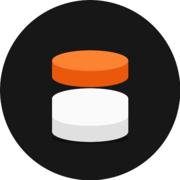
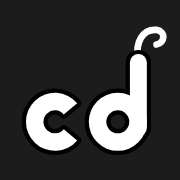
feat(web): cd look, dark theme and offline install
Ubuntu fonts, cream and graphite palette with one yellow accent, a prompt-style
header with a theme toggle, and a service worker plus manifest so the hub
installs and keeps working offline.

diff --git a/apps/web/app/layout.tsx b/apps/web/app/layout.tsx
@@ -1,43 +1,43 @@
-import type { Metadata } from 'next'
-import { Geist, Geist_Mono, Inter } from 'next/font/google'
+import type { Metadata, Viewport } from 'next'
+import { Ubuntu, Ubuntu_Mono } from 'next/font/google'
+import { ThemeProvider } from 'next-themes'
 import './globals.css'
+import { ServiceWorker } from '@/components/service-worker'
+import { SiteHeader } from '@/components/site-header'
 import { cn } from '@/lib/utils'
 import { HUB_NAME, HUB_TAGLINE } from '@/lib/tools'
 
-const interHeading = Inter({ subsets: ['latin'], variable: '--font-heading' })
-
-const inter = Inter({ subsets: ['latin'], variable: '--font-sans' })
-
-const geistSans = Geist({
-  variable: '--font-geist-sans',
-  subsets: ['latin'],
-})
-
-const geistMono = Geist_Mono({
-  variable: '--font-geist-mono',
-  subsets: ['latin'],
-})
+const ubuntu = Ubuntu({ subsets: ['latin'], weight: ['400', '500', '700'], variable: '--font-sans' })
+const ubuntuHeading = Ubuntu({ subsets: ['latin'], weight: ['500', '700'], variable: '--font-heading' })
+const ubuntuMono = Ubuntu_Mono({ subsets: ['latin'], weight: ['400', '700'], variable: '--font-mono' })
 
 export const metadata: Metadata = {
   title: { default: HUB_NAME, template: `%s · ${HUB_NAME}` },
   description: HUB_TAGLINE,
+  applicationName: HUB_NAME,
+}
+
+export const viewport: Viewport = {
+  themeColor: [
+    { media: '(prefers-color-scheme: light)', color: '#f6f4ee' },
+    { media: '(prefers-color-scheme: dark)', color: '#1c1c1c' },
+  ],
 }
 
 export default function RootLayout({ children }: LayoutProps<'/'>) {
   return (
     <html
       lang="en"
-      className={cn(
-        'h-full',
-        'antialiased',
-        geistSans.variable,
-        geistMono.variable,
-        'font-sans',
-        inter.variable,
-        interHeading.variable,
-      )}
+      suppressHydrationWarning
+      className={cn('h-full antialiased font-sans', ubuntu.variable, ubuntuHeading.variable, ubuntuMono.variable)}
     >
-      <body className="min-h-full flex flex-col">{children}</body>
+      <body className="flex min-h-full flex-col bg-background text-foreground">
+        <ThemeProvider attribute="class" defaultTheme="system" enableSystem disableTransitionOnChange>
+          <SiteHeader />
+          {children}
+          <ServiceWorker />
+        </ThemeProvider>
+      </body>
     </html>
   )
 }

diff --git a/apps/web/components/site-header.tsx b/apps/web/components/site-header.tsx
@@ -1,0 +1,53 @@
+'use client'
+
+import Link from 'next/link'
+import { usePathname } from 'next/navigation'
+import { MoonIcon, SunIcon } from 'lucide-react'
+import { useTheme } from 'next-themes'
+import { useSyncExternalStore } from 'react'
+import { Button } from '@/components/ui/button'
+
+const noop = () => () => {}
+
+/** Top bar as a terminal prompt: `cd/hub ~/sql $` always shows where you are. */
+export function SiteHeader(): React.ReactElement {
+  const path = usePathname() ?? '/'
+  const { resolvedTheme, setTheme } = useTheme()
+  const mounted = useSyncExternalStore(
+    noop,
+    () => true,
+    () => false,
+  )
+  const dark = mounted && resolvedTheme === 'dark'
+
+  return (
+    <header className="border-b border-border">
+      <div className="flex h-12 w-full items-center justify-between gap-4 px-4 lg:px-6">
+        <Link
+          href="/"
+          prefetch={false}
+          aria-label="Converter Hub, home"
+          className="flex min-w-0 items-center gap-2.5 rounded-md font-mono text-sm outline-none focus-visible:ring-2 focus-visible:ring-ring"
+        >
+          {/* eslint-disable-next-line @next/next/no-img-element -- static 20px icon */}
+          <img src="/logo.svg" alt="" width={20} height={20} className="size-5 shrink-0 rounded" />
+          <span className="font-bold text-foreground">
+            cd<span className="text-brand-foreground">/</span>hub
+          </span>
+          <span aria-hidden="true" className="hidden truncate text-muted-foreground sm:inline">
+            ~{path === '/' ? '' : path} ${' '}
+            <span className="inline-block h-[1em] w-[0.5em] translate-y-[0.15em] bg-brand motion-safe:animate-caret" />
+          </span>
+        </Link>
+        <Button
+          variant="ghost"
+          size="icon-sm"
+          aria-label={dark ? 'Switch to light theme' : 'Switch to dark theme'}
+          onClick={() => setTheme(dark ? 'light' : 'dark')}
+        >
+          {mounted && (dark ? <SunIcon aria-hidden="true" /> : <MoonIcon aria-hidden="true" />)}
+        </Button>
+      </div>
+    </header>
+  )
+}

diff --git a/apps/web/public/sw.js b/apps/web/public/sw.js
@@ -1,0 +1,58 @@
+// Converter Hub service worker: keeps the app usable offline.
+// Pages: network first, falling back to the cached copy. Hashed assets: cache first.
+const CACHE = 'converter-hub-v2'
+const PAGES = ['/', '/spreadsheet', '/sql', '/data', '/markdown', '/json-to-typescript', '/image']
+const ASSETS = ['/wa-sqlite.wasm', '/logo.svg', '/icons/icon-192.png', '/icons/icon-512.png']
+
+self.addEventListener('install', (event) => {
+  event.waitUntil(
+    caches
+      .open(CACHE)
+      .then((cache) => cache.addAll([...PAGES, ...ASSETS]))
+      .then(() => self.skipWaiting()),
+  )
+})
+
+self.addEventListener('activate', (event) => {
+  event.waitUntil(
+    caches
+      .keys()
+      .then((keys) => Promise.all(keys.filter((key) => key !== CACHE).map((key) => caches.delete(key))))
+      .then(() => self.clients.claim()),
+  )
+})
+
+self.addEventListener('fetch', (event) => {
+  const { request } = event
+  const url = new URL(request.url)
+  if (request.method !== 'GET' || url.origin !== self.location.origin) return
+
+  // Built assets have content hashes in their names: never stale, serve from cache.
+  if (url.pathname.startsWith('/_next/static/') || ASSETS.includes(url.pathname) || url.pathname.startsWith('/icons/')) {
+    event.respondWith(
+      caches.match(request).then(
+        (cached) =>
+          cached ??
+          fetch(request).then((response) => {
+            const copy = response.clone()
+            caches.open(CACHE).then((cache) => cache.put(request, copy))
+            return response
+          }),
+      ),
+    )
+    return
+  }
+
+  // Pages and everything else: try the network, keep a copy, use the copy when offline.
+  event.respondWith(
+    fetch(request)
+      .then((response) => {
+        if (response.ok) {
+          const copy = response.clone()
+          caches.open(CACHE).then((cache) => cache.put(request, copy))
+        }
+        return response
+      })
+      .catch(() => caches.match(request).then((cached) => cached ?? caches.match('/'))),
+  )
+})

diff --git a/apps/web/app/globals.css b/apps/web/app/globals.css
@@ -335,3 +335,72 @@
     scale: 0.97;
   }
 }
+
+/* --- v2: identidade cd (a mesma do portfólio e do cd/ui) ---
+   Os componentes usam as variáveis do coss; aqui só trocam os valores. */
+:root {
+  --background: #f6f4ee;
+  --foreground: #262626;
+  --card: #fbfaf6;
+  --card-foreground: #262626;
+  --popover: #fbfaf6;
+  --popover-foreground: #262626;
+  --primary: #262626;
+  --primary-foreground: #f6f4ee;
+  --secondary: rgb(0 0 0 / 0.04);
+  --secondary-foreground: #262626;
+  --muted: rgb(0 0 0 / 0.04);
+  --muted-foreground: #686868;
+  --accent: rgb(0 0 0 / 0.04);
+  --accent-foreground: #262626;
+  --border: rgb(0 0 0 / 0.08);
+  --input: rgb(0 0 0 / 0.12);
+  --ring: #e0b320;
+  --brand: #ffd23f;
+  --brand-foreground: #7a5c00;
+  --brand-contrast: #1c1c1c;
+}
+.dark {
+  --background: #1c1c1c;
+  --foreground: #f5f5f5;
+  --card: #222220;
+  --card-foreground: #f5f5f5;
+  --popover: #222220;
+  --popover-foreground: #f5f5f5;
+  --primary: #f5f5f5;
+  --primary-foreground: #1c1c1c;
+  --secondary: rgb(255 255 255 / 0.05);
+  --secondary-foreground: #f5f5f5;
+  --muted: rgb(255 255 255 / 0.04);
+  --muted-foreground: #8a8a8a;
+  --accent: rgb(255 255 255 / 0.06);
+  --accent-foreground: #f5f5f5;
+  --border: rgb(255 255 255 / 0.08);
+  --input: rgb(255 255 255 / 0.12);
+  --ring: #ffd23f;
+  --brand-foreground: #ffd23f;
+}
+@theme inline {
+  --color-brand: var(--brand);
+  --color-brand-foreground: var(--brand-foreground);
+  --color-brand-contrast: var(--brand-contrast);
+}
+@theme {
+  --ease-out: cubic-bezier(0.23, 1, 0.32, 1);
+  --ease-in-out: cubic-bezier(0.77, 0, 0.175, 1);
+}
+::selection {
+  background: color-mix(in srgb, var(--brand) 45%, transparent);
+}
+html {
+  caret-color: var(--brand-foreground);
+}
+
+/* Área de soltar da home: a borda tracejada "acende" quando um arquivo passa por cima. */
+@keyframes caret {
+  0%, 70%, 100% { opacity: 1; }
+  20%, 50% { opacity: 0; }
+}
+@utility animate-caret {
+  animation: caret 1s ease-out infinite;
+}

diff --git a/apps/web/app/manifest.ts b/apps/web/app/manifest.ts
@@ -1,0 +1,20 @@
+import type { MetadataRoute } from 'next'
+import { HUB_NAME, HUB_TAGLINE } from '@/lib/tools'
+
+/** Installable app: opens in its own window and, with the service worker, works offline. */
+export default function manifest(): MetadataRoute.Manifest {
+  return {
+    name: HUB_NAME,
+    short_name: 'cd/hub',
+    description: HUB_TAGLINE,
+    start_url: '/',
+    display: 'standalone',
+    background_color: '#f6f4ee',
+    theme_color: '#1c1c1c',
+    icons: [
+      { src: '/icons/icon-192.png', sizes: '192x192', type: 'image/png' },
+      { src: '/icons/icon-512.png', sizes: '512x512', type: 'image/png' },
+      { src: '/icons/maskable-512.png', sizes: '512x512', type: 'image/png', purpose: 'maskable' },
+    ],
+  }
+}

diff --git a/apps/web/components/service-worker.tsx b/apps/web/components/service-worker.tsx
@@ -1,0 +1,14 @@
+'use client'
+
+import { useEffect } from 'react'
+
+/** Registers the offline service worker in production builds only (dev reloads would fight it). */
+export function ServiceWorker(): null {
+  useEffect(() => {
+    if (process.env.NODE_ENV !== 'production' || !('serviceWorker' in navigator)) return
+    navigator.serviceWorker.register('/sw.js').catch(() => {
+      // Offline support is a bonus; the app works the same without it.
+    })
+  }, [])
+  return null
+}
